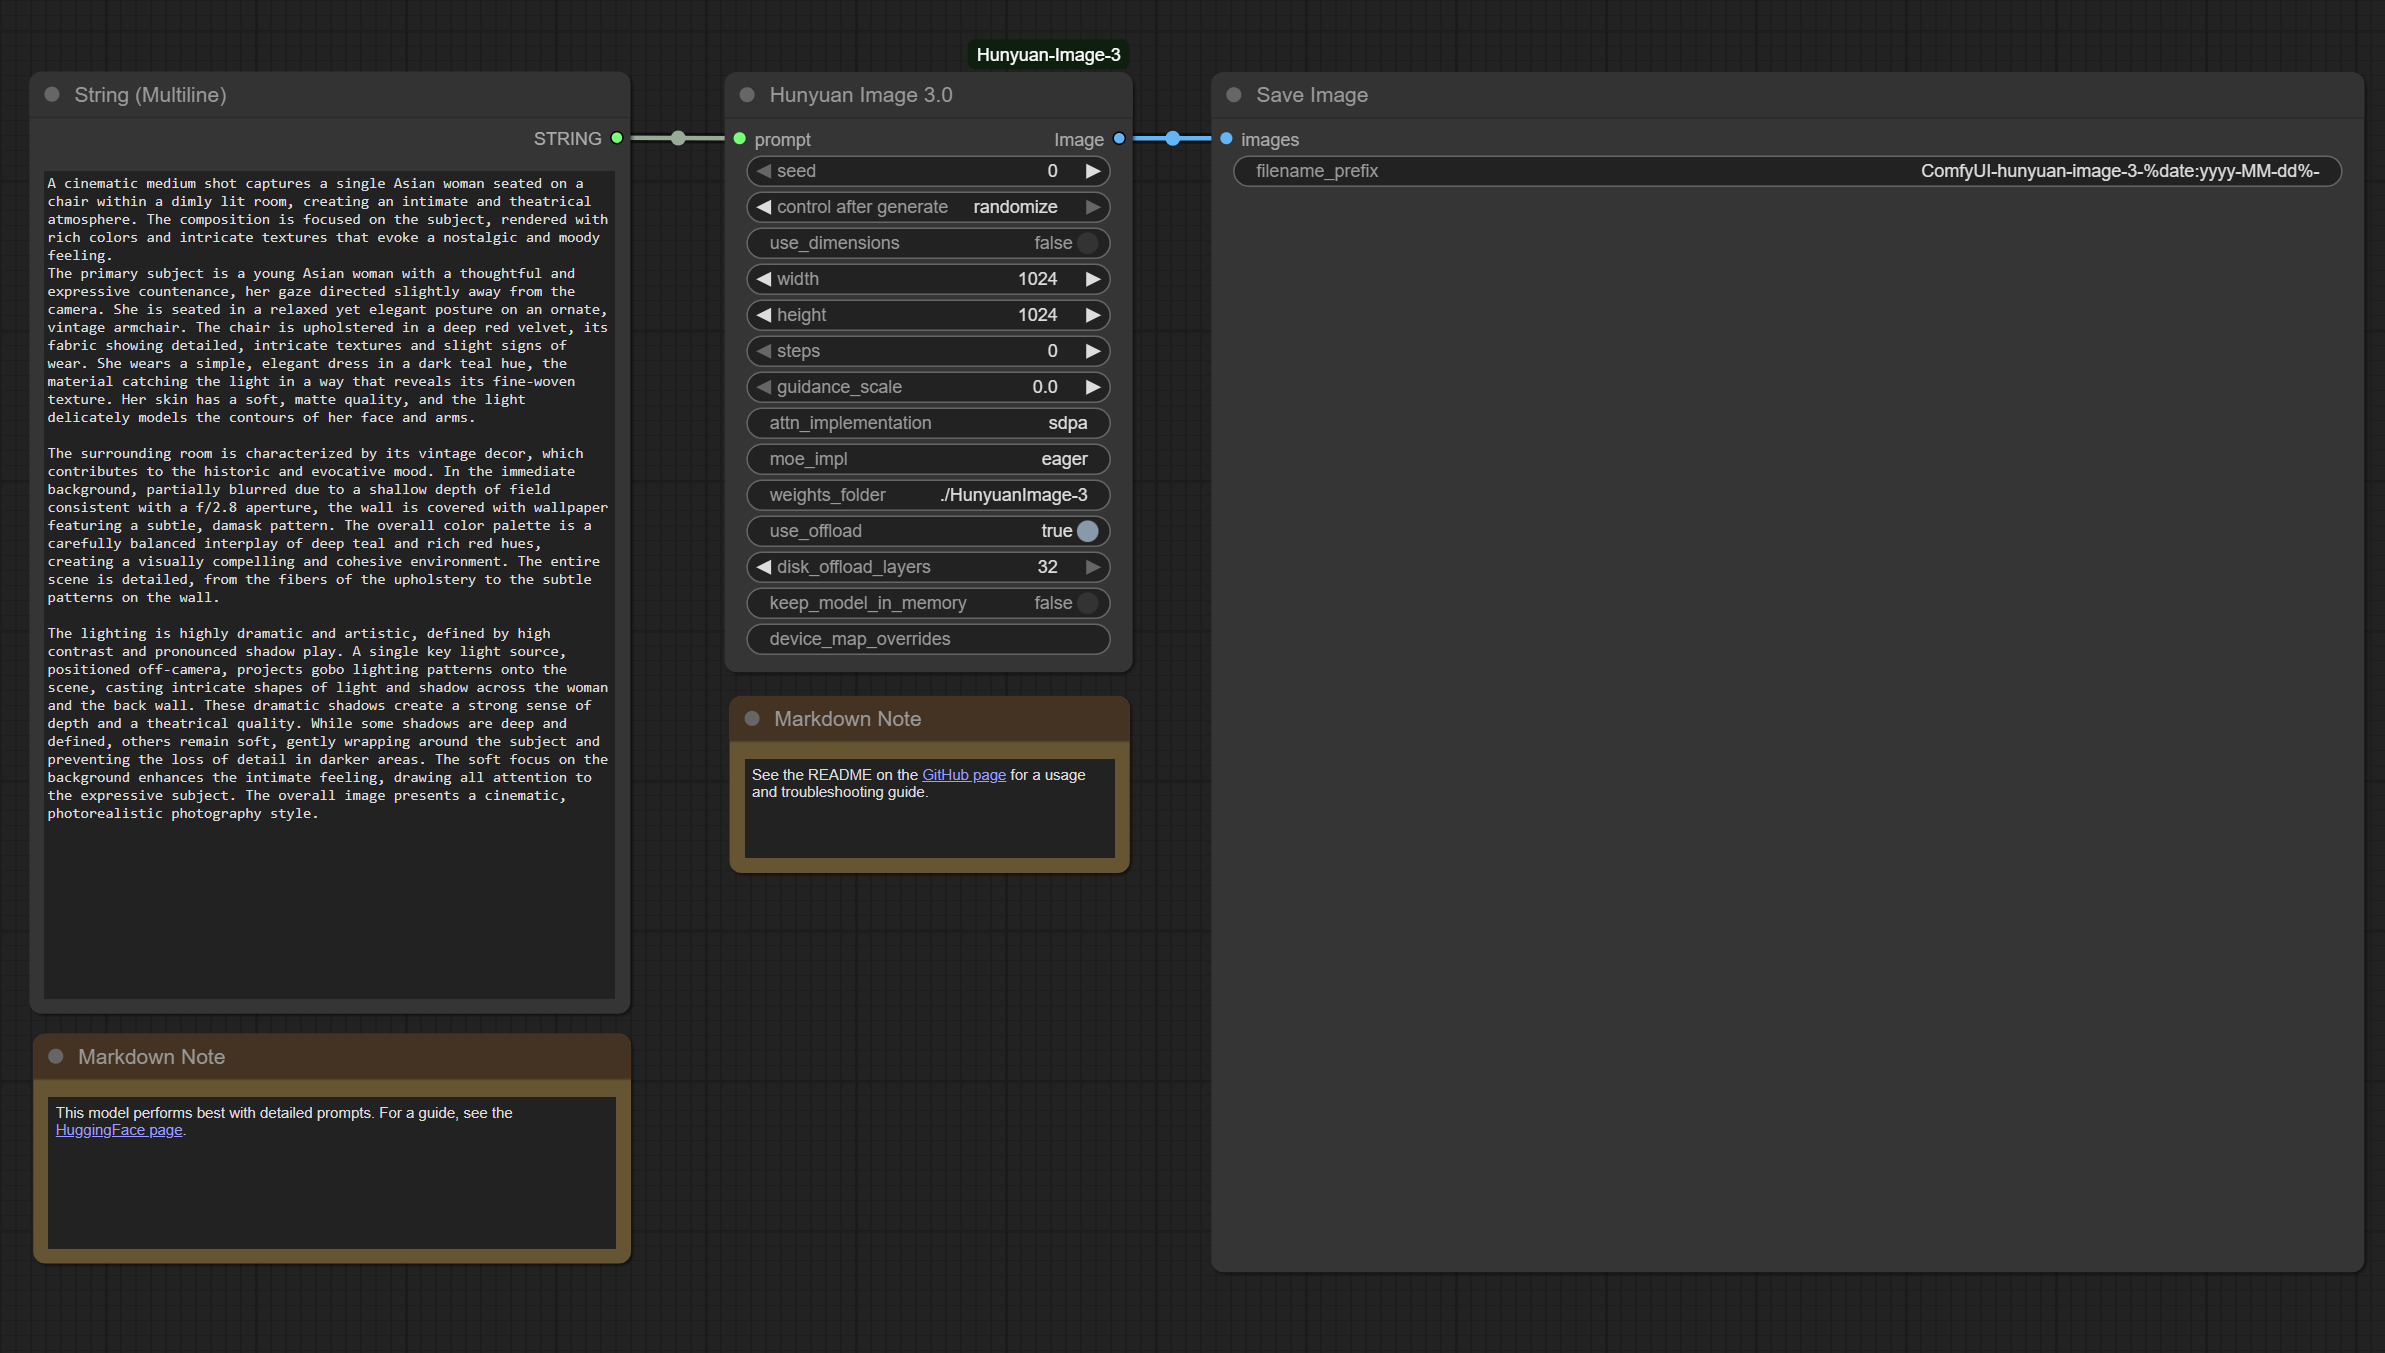
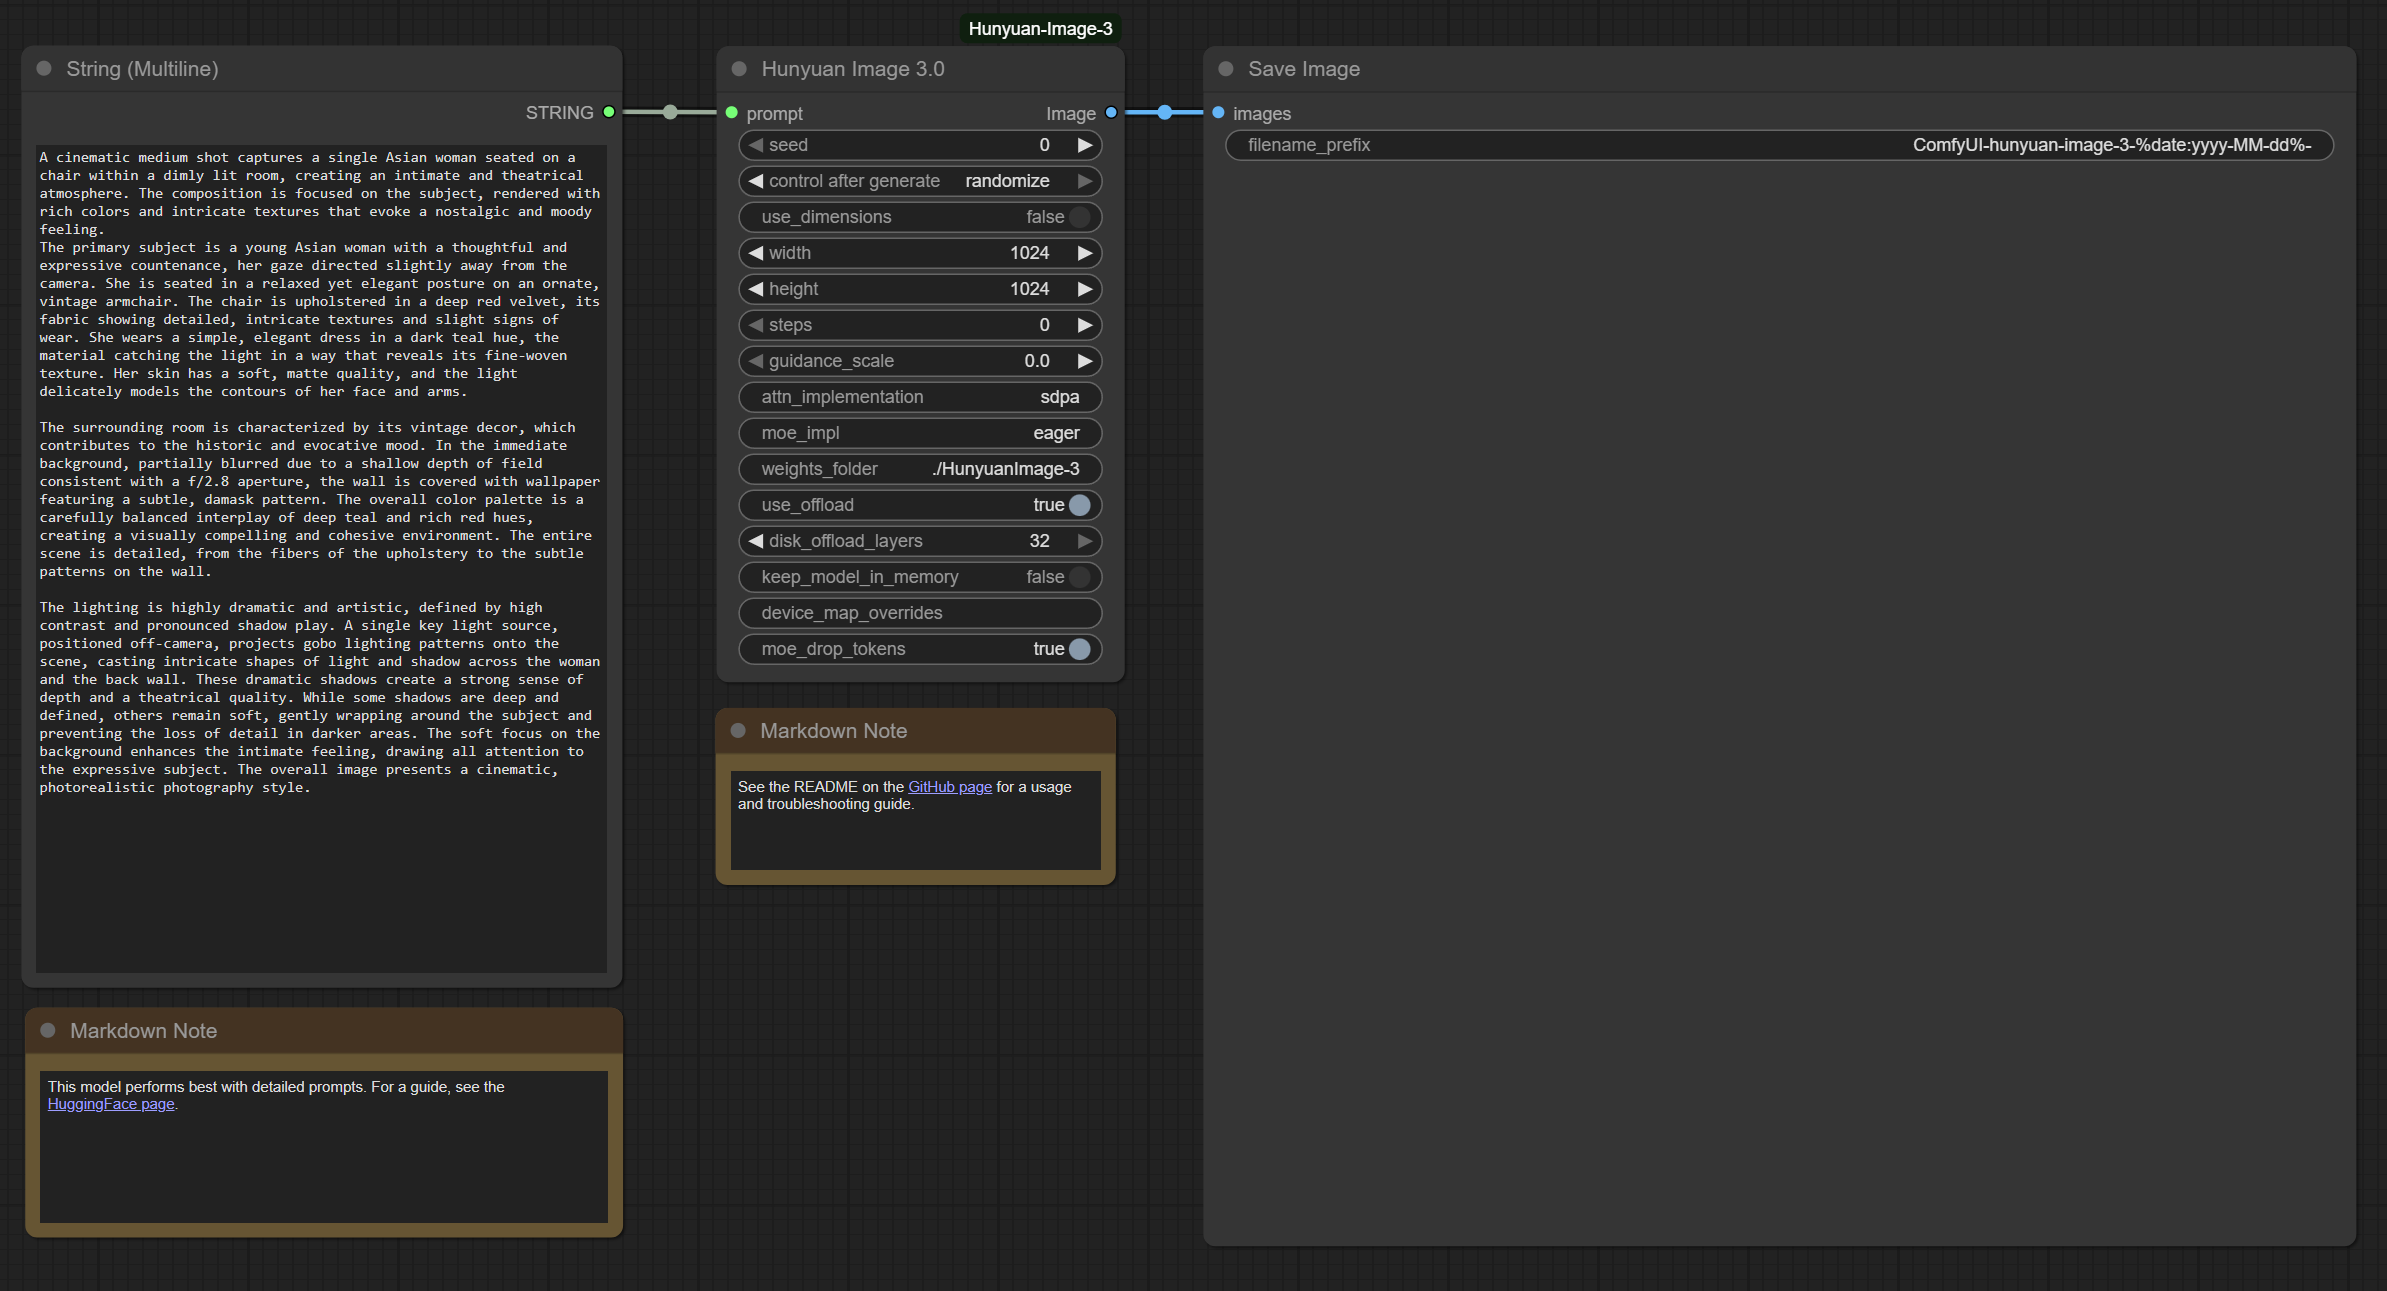
Release 1.2.0 (#19)
* add device map override functionality

* fix syntax

* update readme

* Edit inference file so it keeps memory reserved

* prepare release branch

* make it so that the model is optionally unloaded between generations

* remove newline

* update assets and example workflow

* update pyproject

* reload the model if settings have changed; use model if it's already … (#16)

* reload the model if settings have changed; use model if it's already loaded even if keep_model_in_memory is false

* update readme

* prepare relase 1.2.0

* Add moe drop tokens (#18)

* moe_drop_tokens option

* log kwargs, change readme

* make moe_drop_tokens the default

* edit readme

---------

diff --git a/hunyuan_image_3_gen.py b/hunyuan_image_3_gen.py
@@ -1,4 +1,5 @@
 import numpy as np
+import gc
 import torch
 from transformers import AutoModelForCausalLM
 
@@ -8,6 +9,7 @@ class HunyuanImage3:
     # Use class variable to store the loaded model so it persists between method calls
     # This prevents the model from being unloaded and reserved RAM from being released
     model = None
+    model_settings = None
     
     @classmethod
     def INPUT_TYPES(cls):
@@ -29,6 +31,7 @@ class HunyuanImage3:
             },
             "optional": {
                 "device_map_overrides": ("STRING", {"multiline": False, "tooltip": "ADVANCED: Device map key=value overrides, comma-separated. e.g. \"model.layers.0=0,model.layers.1=1\"."}),
+                "moe_drop_tokens": ("BOOLEAN", {"default": True, "tooltip": "Sets moe_drop_tokens=True on model loading."}),
             }
         }
     
@@ -54,21 +57,32 @@ class HunyuanImage3:
         disk_offload_layers: int,
         keep_model_in_memory: bool,
         device_map_overrides: str,
+        moe_drop_tokens: bool,
     ):
         """Generate an image"""
         model_id = weights_folder
 
         # Load model
+        # If the model is already loaded, but the settings have changed, unload the model.
+        model_settings = self._model_settings_string(model_id, attn_implementation, moe_impl, use_offload, disk_offload_layers, device_map_overrides, moe_drop_tokens)
+        if self.model is not None and self.model_settings != model_settings:
+            self.model = None
+            gc.collect()
+
+        # Save the current model settings
+        self.model_settings = model_settings
+
+        # If the model is already loaded, use it. Otherwise, load it.
+        if self.model is not None:
+            model = self.model
+        else:
+            model = self._load_model(model_id, attn_implementation, moe_impl, use_offload, disk_offload_layers, device_map_overrides, moe_drop_tokens)
+
+        # If we are going to keep the model in memory, save it. Otherwise, make sure it's not saved.
         if keep_model_in_memory:
-            # If the model is already loaded, use it. Otherwise, load it.
-            if self.model is not None:
-                model = self.model
-            else:
-                model = self._load_model(model_id, attn_implementation, moe_impl, use_offload, disk_offload_layers, device_map_overrides)
-                self.model = model
+            self.model = model
         else:
             self.model = None
-            model = self._load_model(model_id, attn_implementation, moe_impl, use_offload, disk_offload_layers, device_map_overrides)
 
         # Generate image
         image_kwargs = {'seed': seed}
@@ -89,7 +103,7 @@ class HunyuanImage3:
 
         return (image,)
 
-    def _load_model(self, model_id, attn_implementation, moe_impl, use_offload, disk_offload_layers, device_map_overrides):
+    def _load_model(self, model_id, attn_implementation, moe_impl, use_offload, disk_offload_layers, device_map_overrides, moe_drop_tokens):
         if use_offload or device_map_overrides:
             device_map = {'vae': 0, 'vision_model': 'cpu', 'vision_aligner': 'cpu', 'timestep_emb': 'cpu', 'patch_embed': 'cpu', 'time_embed': 'cpu', 'final_layer': 'cpu', 'time_embed_2': 'cpu', 'model.wte': 'cpu', 'model.layers.0': 'cpu', 'model.layers.1': 'cpu', 'model.layers.2': 'cpu', 'model.layers.3': 'cpu', 'model.layers.4': 'cpu', 'model.layers.5': 'cpu', 'model.layers.6': 'cpu', 'model.layers.7': 'cpu', 'model.layers.8': 'cpu', 'model.layers.9': 'cpu', 'model.layers.10': 'cpu', 'model.layers.11': 'cpu', 'model.layers.12': 'cpu', 'model.layers.13': 'cpu', 'model.layers.14': 'cpu', 'model.layers.15': 'cpu', 'model.layers.16': 'cpu', 'model.layers.17': 'cpu', 'model.layers.18': 'cpu', 'model.layers.19': 'cpu', 'model.layers.20': 'cpu', 'model.layers.21': 'cpu', 'model.layers.22': 'cpu', 'model.layers.23': 'cpu', 'model.layers.24': 'cpu', 'model.layers.25': 'cpu', 'model.layers.26': 'cpu', 'model.layers.27': 'cpu', 'model.layers.28': 'cpu', 'model.layers.29': 'cpu', 'model.layers.30': 'cpu', 'model.layers.31': 'cpu', 'model.ln_f': 'cpu', 'lm_head': 'cpu'}
 
@@ -119,8 +133,6 @@ class HunyuanImage3:
         else:
             device_map = 'auto'
 
-        self._log(f"Using device map: {device_map}")
-
         model_kwargs = dict(
             attn_implementation=attn_implementation,
             trust_remote_code=True,
@@ -129,6 +141,11 @@ class HunyuanImage3:
             moe_impl=moe_impl,
         )
 
+        if moe_drop_tokens:
+            model_kwargs['moe_drop_tokens'] = True
+
+        self._log(f"Using model args: {model_kwargs}")
+
         model = AutoModelForCausalLM.from_pretrained(model_id, **model_kwargs)
         model.load_tokenizer(model_id)
 
@@ -136,3 +153,7 @@ class HunyuanImage3:
 
     def _log(self, string):
         print(f"HunyuanImage3: {string}")
+
+    def _model_settings_string(self, model_id, attn_implementation, moe_impl, use_offload, disk_offload_layers, device_map_overrides, moe_drop_tokens):
+        return f"{model_id}-{attn_implementation}-{moe_impl}-{use_offload}-{disk_offload_layers}-{device_map_overrides}-{moe_drop_tokens}"
+

diff --git a/README.md b/README.md
@@ -10,44 +10,22 @@ This is a custom node that allows for basic image generation using Hunyuan Image
     - When using CPU offload, weights are stored in system RAM and transferred to the GPU as needed for processing
     - When using disk offload, weights are stored in system RAM and on disk and transferred to the GPU as needed for processing
 
-## System Requirements
-
-Tested (uses CPU + disk offload):
-- Windows[^1]
-- An Nvidia GPU with 24GB of VRAM[^1]
-- 128 GB of system memory[^2]
-- A PCIe 4.0 x16 connection between GPU and CPU[^3]
-- An NVMe SSD[^4]
-
-Recommended (uses CPU offload, but no disk offload)[^5]:
-- Windows
-- An Nvidia GPU with >32GB of VRAM
-- 192GB of system memory
-- A PCIe 5.0 x16 connection between GPU and CPU
-
-Ultra (does not use offload)[^5]:
-- Enough VRAM to run entirely on GPU (possibly 192GB of VRAM)
-
-[^1]: Windows + Nvidia is required when using a GPU with low VRAM, because this combination allows for the driver to fallback to using system memory if graphics memory is full. Otherwise some operations will cause the program to crash with OOM. Graphics memory usage appears to spike above 32GB of VRAM, so system memory fallback is probably still necessary with an RTX 5090.
-[^2]: The less memory you have, the more weights will have to be offloaded to disk, with a dramatic performance penalty.
-[^3]: When using CPU offload, a major performance bottleneck is in copying weights across the PCIe bus to GPU.
-[^4]: When using disk offload, a major bottleneck is in reading from drive, so you want it to be as fast as possible.
-[^5]: This configuration has not been tested.
-
 ## Installation
+
+You can find the node on the ComfyUI registry, or you can install it manually.
+
+Manual installation steps:
 
 1. Navigate to your custom_nodes folder
 2. Clone this repo: `git clone https://github.com/bgreene2/ComfyUI-HunyuanImage3.git`
 3. Change to the directory `cd ComfyUI-HunyuanImage3`
 4. Assuming the correct Python environemnt is loaded, install dependencies `pip install -r requirements.txt`
 5. If pytorch is not already installed, install pytorch: `pip install torch==2.7.1 torchvision==0.22.1 torchaudio==2.7.1 --index-url https://download.pytorch.org/whl/cu128`
-6. Add the flag `--disable-cuda-malloc` to your ComfyUI startup script.
+6. (optional) Add the flag `--disable-cuda-malloc` to your ComfyUI startup script.
 
 ## Post-installation steps
 
 - Download [the model weights](https://huggingface.co/tencent/HunyuanImage-3.0)
-- If you are using an Nvidia GPU, in the Nvidia control panel, change the "CUDA Sysmem Fallback Policy" to "Prefer Sysmem Fallback"
-    - ![CUDA Sysmem Fallback](assets/cuda_sysmem_fallback_screenshot.png)
 
 ## Usage Guide
 
@@ -59,7 +37,7 @@ The node has the following parameters:
 
 - seed - The seed for the random number generator
 - control after generate - This is attached to the 'seed' parameter
-- use_dimensions - Whether to use the below user-specified width and height values. If false, the model will automatically choose the image dimensions.
+- use_dimensions - Whether to use the below user-specified width and height values. If false, the model will automatically choose the image dimensions. Note: the model has a few discrete image sizes that it supports. So even if you specify a width and height, the actual image dimensions used may be different, but should have a similar ratio.
 - width - Image width
 - height - Image height
 - steps - Number of steps. The recommended value is 50.
@@ -68,29 +46,50 @@ The node has the following parameters:
 - moe_impl - Valid values are `eager` and `flashinfer`
 - weights_folder - The path to the model's weights on disk.
 - use_offload - Whether to use CPU / disk offload.
-- disk_offload_layers - The number of layers (out of 32) to offload to disk, rather than hold in memory. See the [Performance Tuning](#performance-tuning) section for more details.
-- keep_model_in_memory - If enabled, the model will be kept in memory between generations.
-- device_map_overrides - ADVANCED: You can modify the custom device_map using this. Overrides are expressed as key=value pairs, comma-separated. For example, to put layers 1 and 2 on GPU 1, you would do `model.layers.1=1,model.layers.2=1`.
+- disk_offload_layers - The number of layers (out of 32) to offload to disk, rather than hold in memory.
+- keep_model_in_memory - If enabled, the model will be kept in memory between generations, instead of being unloaded.
+- device_map_overrides - You can modify the custom device_map using this. Overrides are expressed as key=value pairs, comma-separated. See the [Performance Tuning](#performance-tuning) section for more details.
+- moe_drop_tokens - Enables the moe_drop_tokens parameter on model loading. See the [Memory Troubleshooting](#memory-troubleshooting) section for more details.
 
 Basic usage: Connect a String (Multiline) input to the `prompt` input, and connect the `Image` output to a Save Image node. An [example workflow](workflows/hunyuan_image_3_example.json) is provided.
 ![example workflow](assets/workflow_screenshot.png)
 
-## Performance Tuning
-
-If you are using disk offload, you need to choose the number of layers to offload such that your RAM is not completely filled, so that the system does not use swap. This may require some trial-and-error while monitoring memory usage. On a system with 128GB of memory, 10 layers is a good starting point.
-
-On the tested system, an image takes on the order of 1-1.5 hours to generate, using 50 steps.
-
 ## Recommended Usage
 
-This model works best with detailed prompts. See the [HuggingFace page](https://huggingface.co/tencent/HunyuanImage-3.0) for a prompting guide. You can also use an LLM to rewrite your prompts, such as [PromptEnhancer](https://huggingface.co/PromptEnhancer/PromptEnhancer-32B).
+This model works best with detailed prompts. See the [HuggingFace page](https://huggingface.co/tencent/HunyuanImage-3.0) for a prompting guide.
 
-## Troubleshooting
+## Performance Tuning
 
-If you are getting crashes due to running out of GPU memory, make sure you are doing the following:
+If you can fit the entire model in VRAM, you can run with use_offload set to `false`. This should give you the highest speed possible.
 
-1. Use Windows
-2. Use an Nvidia GPU
-3. Set Sysmem Fallback Policy in the Nvidia control panel
-4. Run ComfyUI with `--disable-cuda-malloc`
+If you can't fit the model in VRAM, you can enable offload by setting use_offload to `true`. In this case, you will be bottlenecked by the transfer of data from system memory to VRAM to process on your GPU. You will want to have as fast a PCIe connection as possible.
 
+If you can't fit the model in system ram, you can enable disk offload by setting disk_offload_layers to a value above `0`. In this case, you will be additionally bottlenecked by the transfer of data from disk. You will want to have as fast a drive as possible.
+
+If you are using disk offload, you need to choose the number of layers to offload such that you still have some physical memory left over, so that the system does not use swap. This may require some trial-and-error while monitoring memory usage. On a system with 128GB of RAM, 10 layers is a good starting point.
+
+When using disk offload with 10 layers, on a system with PCIe 4.0 and an NVMe drive, an image will take on the order of 1-1.5 hours to generate using 50 steps.
+
+Tips:
+
+If you wish to use more of your VRAM, you can set device_map_overrides.
+
+- To put everything except for the model's layers onto GPU 0, you would set `vision_model=0,vision_aligner=0,timestamp_emb=0,patch_embed=0,time_embed=0,final_layer=0,time_embed_2=0,model.wte=0,model.ln_f=0,lm_head=0`.
+- To start putting layers onto GPU0, you would add `model.layers.0=0,model.layers.1=0`,...
+- You can also spread the load across GPUs, e.g. `model.layers.2=1,model.layers.3=1` would put layers 2 and 3 onto GPU 1.
+
+## Memory Troubleshooting
+
+If you are getting crashes due to running out of GPU memory, there are some things you could try:
+
+- Enable moe_drop_tokens.
+
+This stabilizes memory usage dramatically. It does alter the output image, but quality is not affected much. See [this comment](https://github.com/Tencent-Hunyuan/HunyuanImage-3.0/issues/39#issuecomment-3384699854).
+
+If you don't wish to do this, or if you are still running out of memory, you could try the following:
+
+1. Set Sysmem Fallback Policy in the Nvidia control panel (only available on Windows platforms - Nvidia's Linux drivers don't have this feature)
+2. Run ComfyUI with `--disable-cuda-malloc`
+
+This is where the option is found in the Nvidia control panel:
+![CUDA Sysmem Fallback](assets/cuda_sysmem_fallback_screenshot.png)
